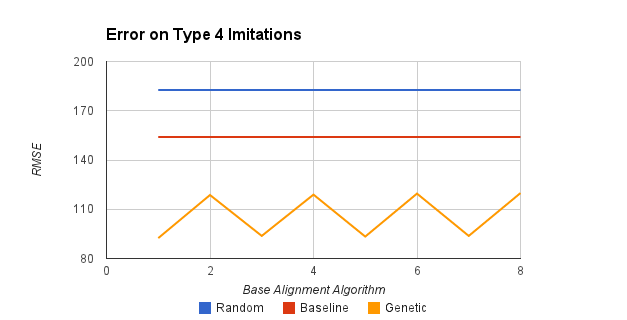
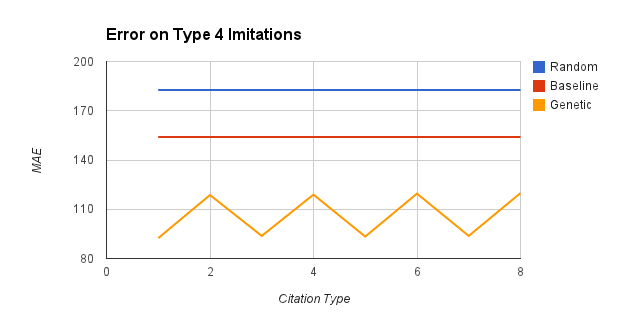
Images Updated

diff --git a/results.tex b/results.tex
@@ -22,19 +22,19 @@ Figures \ref{fig:c1}-\ref{fig:6} demonstrate that the various versions of geneti
 	\begin{center}
 		\begin{tabular}{|l|c|c|} \hline
 			\textbf{Imitation Type}	& \textbf{Best Algorithm}	&	\textbf{Error (MAE)}	\\ \hline \hline
-			1						& 1							&	147.08					\\ \hline
-			2						& 2							&	272.56					\\ \hline
-			3						& 1							&	161.01					\\ \hline
-			4						& 1							&	271.10					\\ \hline
-			5						& 1							&	183.64					\\ \hline
-			6						& 1							&	182.76					\\ \hline
+			1			& 1				&	54.15			\\ \hline
+			2			& 1				&	82.81			\\ \hline
+			3			& 1				&	87.59			\\ \hline
+			4			& 1				&	92.42			\\ \hline
+			5			& 1				&	93.38			\\ \hline
+			6			& 1				&	101.43			\\ \hline
 		\end{tabular}
 	\end{center}
-	\caption{Algorithm 1 has the best MAE for $6/7$ of the imitation types.}
+	\caption{Algorithm 1 has the best MAE for all the imitation types.}
 	\label{tab:best-for-each}
 \end{table}
 
-Interestingly, algorithm 1 is often the best algorithm. Subsequently, this is also true for the MAE over all imitation types. Algorithm 1 combined wih BP-MLP ends up being the best high-order combinational model. However, in when simple linear regression is used, algorithm 1 ends up being the worst model.
+Interestingly, algorithm 1 ends up being the best algorithm regardless of type. Algorithm 1 combined wih BP-MLP ends up being the best high-order combinational model. 
 
 \begin{figure}[center]
 	\centering
